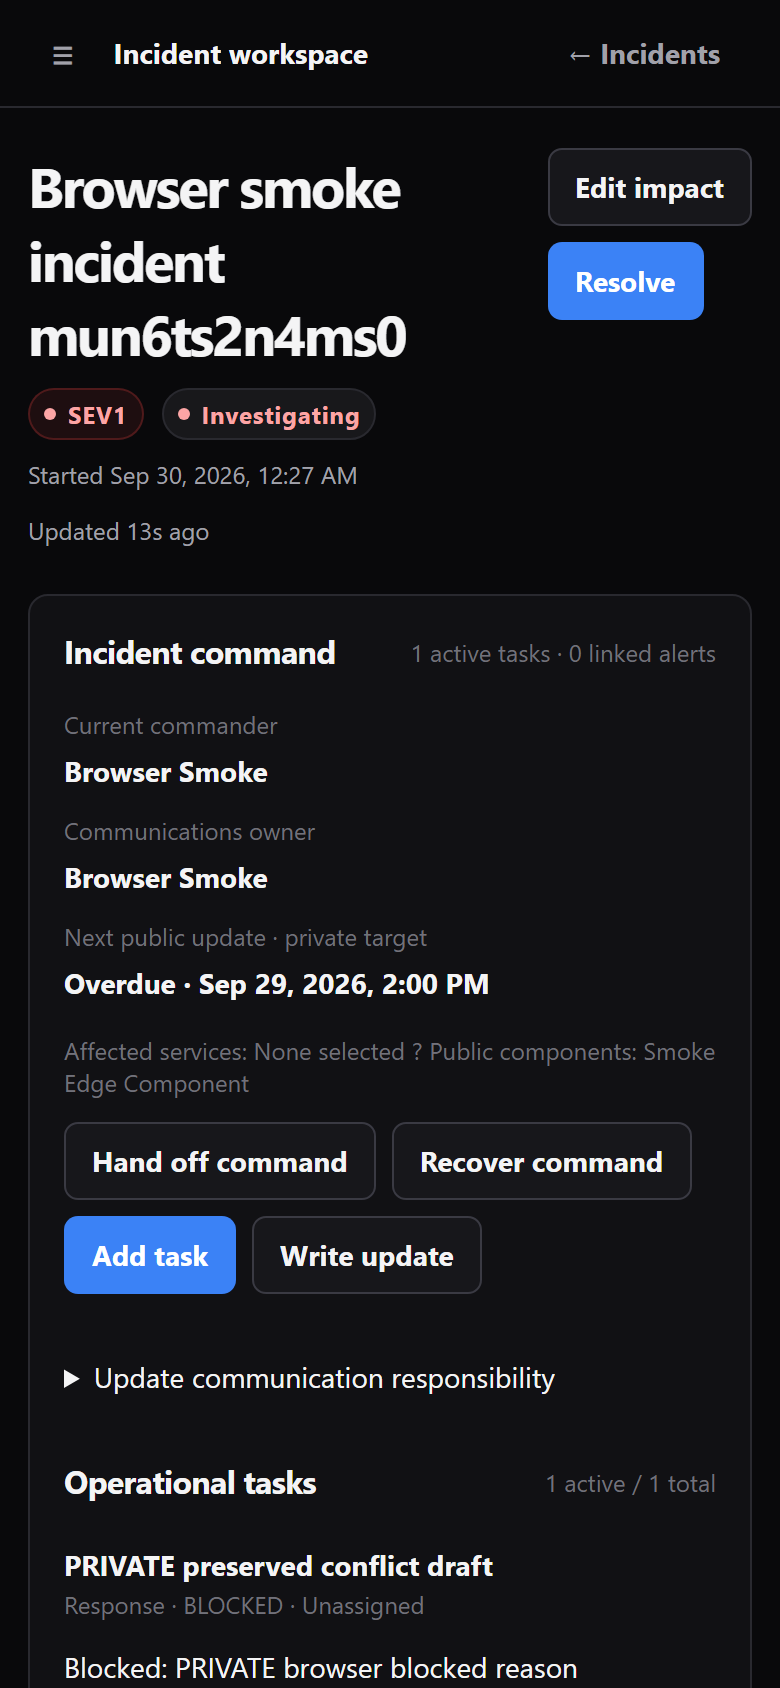
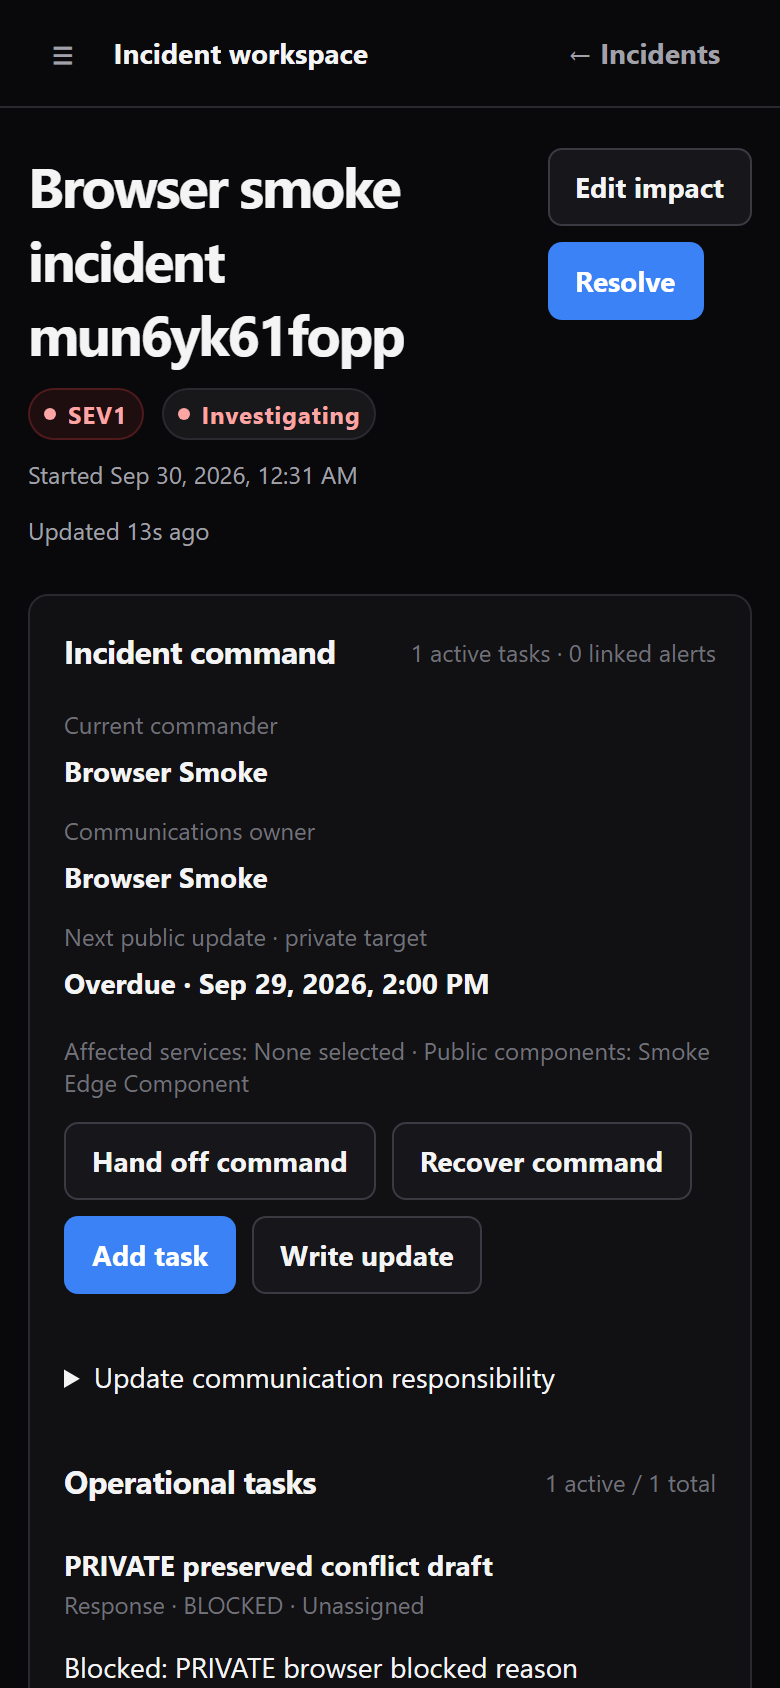
fix: restore command display separators and refresh qualified captures

Changed region(s): [[0.5231, 0.6161, 0.9231, 0.6469], [0.2154, 0.1848, 0.5231, 0.2156], [0.3692, 0.2773, 0.4, 0.3081]]

diff --git a/apps/web/public/app.js b/apps/web/public/app.js
@@ -67,7 +67,7 @@ function incidentCommandPanel(i,members,serviceNames,componentNames){
   const pending=i.handoffs.find((h)=>h.state==='PENDING');const open=i.tasks.filter((t)=>!['DONE','CANCELLED'].includes(t.state));
   const options=(selected,nullable=true)=>`${nullable?'<option value="">Unassigned</option>':''}${members.filter((m)=>['OWNER','ADMIN','RESPONDER'].includes(m.role)).map((m)=>`<option value="${esc(m.userId)}" ${selected===m.userId?'selected':''}>${esc(m.displayName)}</option>`).join('')}`;
   return `<section id="incident-command" class="card section" aria-label="Incident command"><div class="section-head"><h2>Incident command</h2><span>${open.length} active tasks · ${i.linkedAlerts.length} linked alerts</span></div><div class="command-summary"><div><span class="subtext">Current commander</span><strong id="current-commander">${esc(owner(i.commanderUserId))}</strong></div><div><span class="subtext">Communications owner</span><strong>${esc(owner(i.communicationsOwnerUserId))}</strong></div><div><span class="subtext">Next public update · private target</span><strong>${i.nextPublicUpdateAt?`${Date.parse(i.nextPublicUpdateAt)<serverNow()?'Overdue · ':''}${esc(fmt(i.nextPublicUpdateAt))}`:'Not scheduled'}</strong></div></div>
-  <p class="subtext">Affected services: ${esc(serviceNames.join(", ")||"None selected")} ? Public components: ${esc(componentNames.join(", ")||"None selected")}</p><div class="toolbar">${canRespond()&&i.status!=='RESOLVED'&&(canConfigure()||i.commanderUserId===state.me.id)?'<button id="propose-handoff" class="btn">Hand off command</button>':''}${canConfigure()&&i.status!=='RESOLVED'?'<button id="recover-command" class="btn">Recover command</button>':''}${canRespond()?'<button id="add-command-task" class="btn btn-primary">Add task</button>':''}${canRespond()?'<a href="#update-form" class="btn">Write update</a>':''}</div>
+  <p class="subtext">Affected services: ${esc(serviceNames.join(", ")||"None selected")} · Public components: ${esc(componentNames.join(", ")||"None selected")}</p><div class="toolbar">${canRespond()&&i.status!=='RESOLVED'&&(canConfigure()||i.commanderUserId===state.me.id)?'<button id="propose-handoff" class="btn">Hand off command</button>':''}${canConfigure()&&i.status!=='RESOLVED'?'<button id="recover-command" class="btn">Recover command</button>':''}${canRespond()?'<button id="add-command-task" class="btn btn-primary">Add task</button>':''}${canRespond()?'<a href="#update-form" class="btn">Write update</a>':''}</div>
   ${pending?`<div class="review-block"><strong>Awaiting acceptance by ${esc(pending.toNameSnapshot)}</strong><p>${esc(pending.note)}</p><p class="muted">${esc(owner(i.commanderUserId))} remains responsible until acceptance.</p><div class="toolbar">${canRespond()&&pending.toUserId===state.me.id?'<button class="btn btn-primary" data-handoff="accept">Accept command</button><button class="btn" data-handoff="decline">Decline</button>':''}${canRespond()&&(canConfigure()||[pending.requestedByUserId,i.commanderUserId].includes(state.me.id))?'<button class="btn" data-handoff="cancel">Cancel handoff</button>':''}</div></div>`:''}
   ${canRespond()?`<details class="section"><summary>Update communication responsibility</summary><form id="communication-plan" class="section"><div class="form-row"><div class="field"><label for="communication-owner">Owner</label><select id="communication-owner" name="ownerUserId" class="select">${options(i.communicationsOwnerUserId)}</select></div><div class="field"><label for="communication-deadline">Next update target (local time)</label><input id="communication-deadline" name="nextUpdateAt" type="datetime-local" class="input" value="${i.nextPublicUpdateAt?localInputValue(i.nextPublicUpdateAt):''}" ${i.status==='RESOLVED'?'disabled':''}></div></div><button class="btn" type="submit">Save private plan</button><p class="subtext">This records responsibility. It does not publish or send a reminder.</p></form></details>`:''}
   <div class="section-head section"><h2>Operational tasks</h2><span>${open.length} active / ${i.tasks.length} total</span></div><div class="command-tasks">${i.tasks.length?i.tasks.map((t)=>`<article class="command-task"><div><strong>${esc(t.title)}</strong><div class="subtext">${esc(t.kind==='FOLLOW_UP'?'Follow-up':'Response')} · ${esc(t.state.replaceAll('_',' '))} · ${esc(owner(t.assigneeUserId))}${t.dueAt?` · ${!['DONE','CANCELLED'].includes(t.state)&&Date.parse(t.dueAt)<serverNow()?'Overdue · ':''}${esc(fmt(t.dueAt))}`:''}</div>${t.description?`<p>${esc(t.description)}</p>`:''}${t.blockedReason?`<p>Blocked: ${esc(t.blockedReason)}</p>`:''}${t.cancellationReason?`<p>Cancelled: ${esc(t.cancellationReason)}</p>`:''}</div>${canRespond()?`<button class="btn btn-sm" data-edit-task="${esc(t.id)}">Edit task</button>`:''}</article>`).join(''):'<p class="muted">No operational work recorded.</p>'}</div>
@@ -145,7 +145,7 @@ async function ensureMe(){
 }
 
 function empty(title,text){return `<div class="empty"><strong>${esc(title)}</strong>${esc(text)}</div>`}
-function incidentRows(incidents){return incidents.map((i)=>`<tr><td><a data-nav class="name-cell" href="/app/incidents/${esc(i.id)}">${esc(i.title)}</a><div class="subtext">Commander: ${esc(i.commanderDisplayName??"Unassigned")} ? ${i.tasks?.filter((t)=>!["DONE","CANCELLED"].includes(t.state)).length??0} active tasks${i.handoffs?.some((h)=>h.state==="PENDING")?" ? Handoff pending":""}</div><div class="subtext">Started ${esc(ago(i.startedAt))}</div></td><td>${badgeSeverity(i.severity)}</td><td>${badgeStatus(i.status)}</td><td>${i.responders?.length??0}</td><td>${esc(fmt(i.updatedAt))}</td></tr>`).join('')}
+function incidentRows(incidents){return incidents.map((i)=>`<tr><td><a data-nav class="name-cell" href="/app/incidents/${esc(i.id)}">${esc(i.title)}</a><div class="subtext">Commander: ${esc(i.commanderDisplayName??"Unassigned")} · ${i.tasks?.filter((t)=>!["DONE","CANCELLED"].includes(t.state)).length??0} active tasks${i.handoffs?.some((h)=>h.state==="PENDING")?" · Handoff pending":""}</div><div class="subtext">Started ${esc(ago(i.startedAt))}</div></td><td>${badgeSeverity(i.severity)}</td><td>${badgeStatus(i.status)}</td><td>${i.responders?.length??0}</td><td>${esc(fmt(i.updatedAt))}</td></tr>`).join('')}
 
 async function renderDashboard(seq=++renderSeq){
   const [services,components,incidents,pages,oncallData,alerts]=await Promise.all([api(`/api/v1/organizations/${state.orgId}/services`),api(`/api/v1/organizations/${state.orgId}/components`),api(`/api/v1/organizations/${state.orgId}/incidents`),api(`/api/v1/organizations/${state.orgId}/status-pages`),api(`/api/v1/organizations/${state.orgId}/oncall/state`).catch(()=>({at:null,oncall:[]})),api(`/api/v1/organizations/${state.orgId}/alerts`).catch(()=>[])]);

diff --git a/docs/qualification/RLY-0.3-M-001.md b/docs/qualification/RLY-0.3-M-001.md
@@ -4,6 +4,14 @@ Local qualification: **PASS**, 2026-09-30 (Europe/Bucharest). Integration
 readiness also requires the dedicated PR checks; no merge/tag/publication or
 production deployment was performed by this mandate.
 
+Dedicated [PR #7](https://github.com/MiniJe/Relay/pull/7) targets
+`release/rly-0.2-qualification`. Implementation commit `4575094` passed both
+[relay-ci](https://github.com/MiniJe/Relay/actions/runs/36633688445) and the full
+[release-verification](https://github.com/MiniJe/Relay/actions/runs/36633688519)
+on Linux, including Docker, browser, command E2E and restart persistence.
+The final display-separator cleanup and refreshed captures are checked again
+by the same PR workflows; current results are available on the PR checks.
+
 ## Baseline and scope
 
 - Repository: `MiniJe/Relay`.
